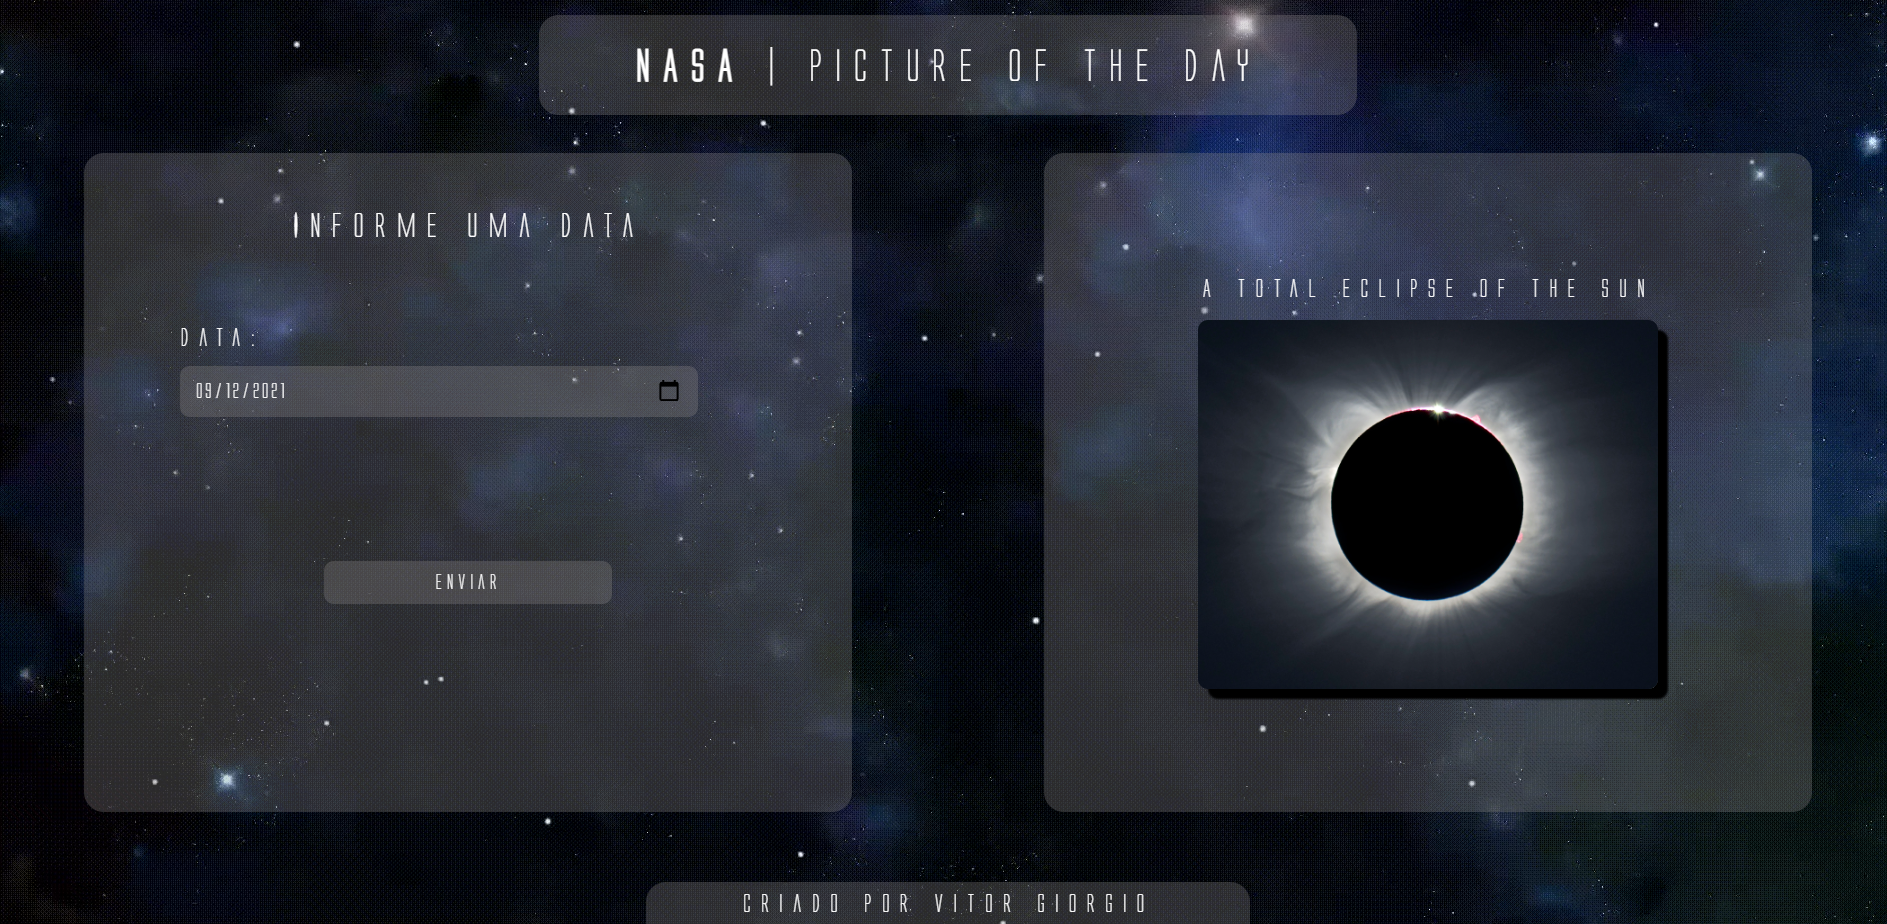
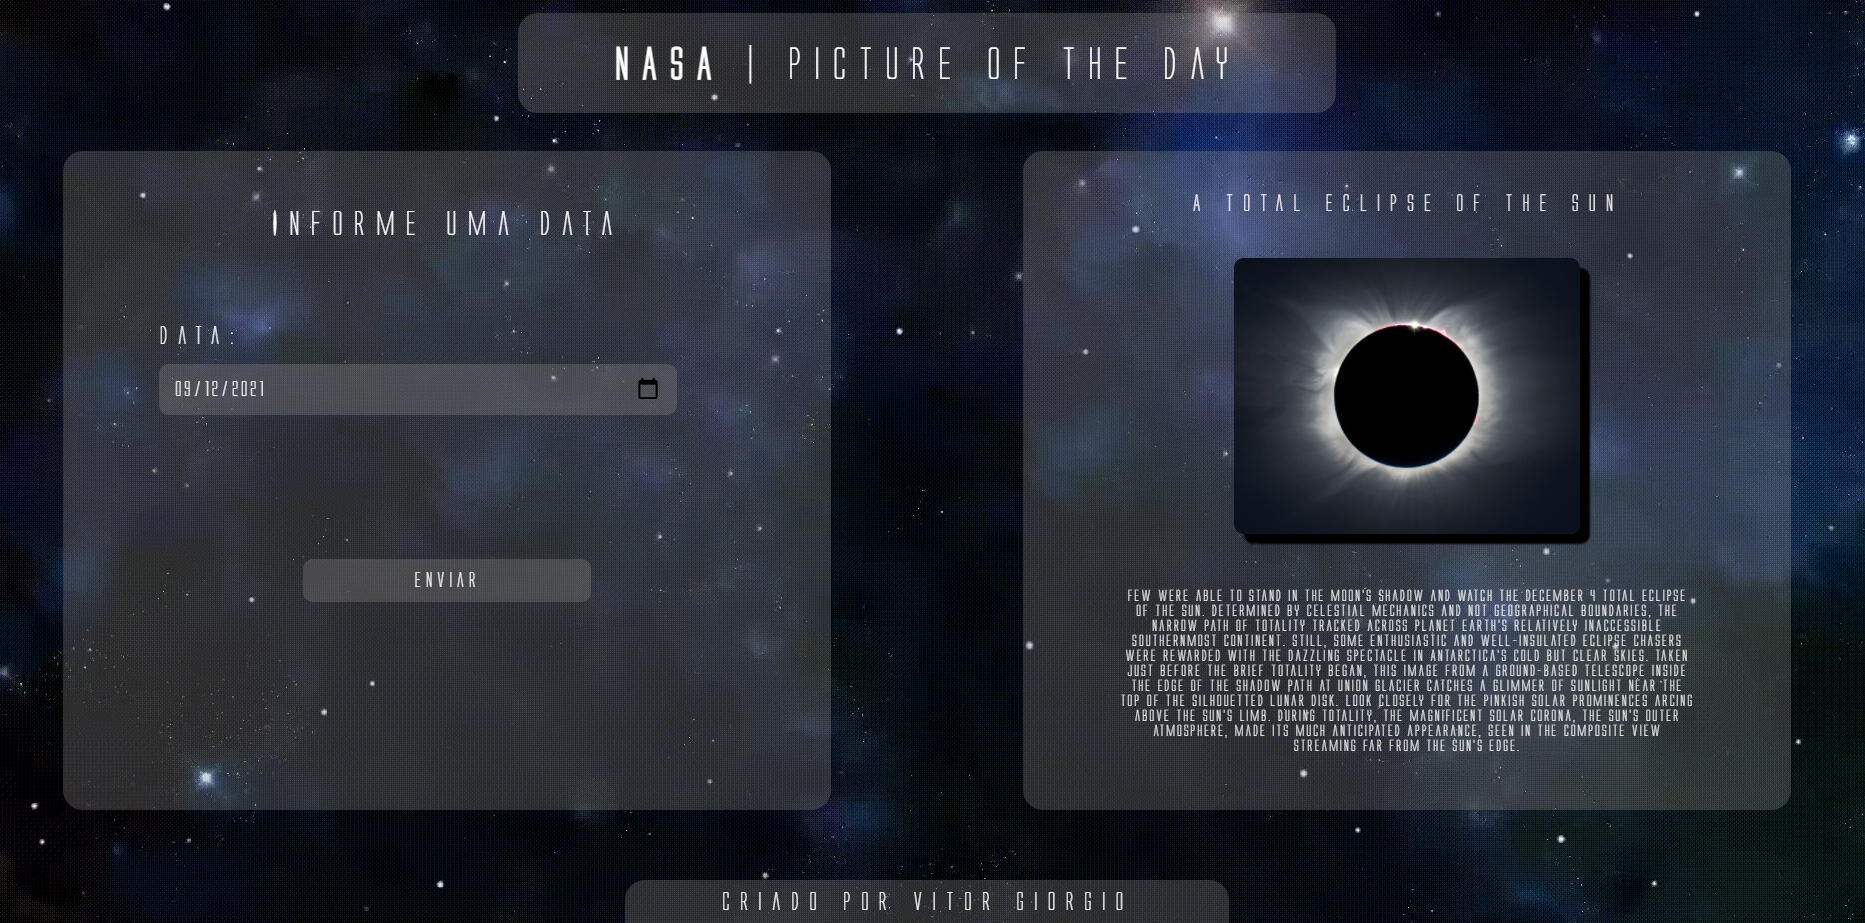
feature: media items description added

diff --git a/javascript/MediaSection.js b/javascript/MediaSection.js
@@ -9,26 +9,47 @@ export default class MediaSection {
   }
 
   /* method: create the image section */
-  createImage(responseImgTitle, imageUrl) {
+  createImage(responseImgTitle, imageUrl, imgExplanation) {
     this.mediaSection.removeClass("invisible");
     const imageTitle = $(`<h1>${responseImgTitle}</h1>`);
+    const imageDescription = $(`<p>${imgExplanation}</p>`);
+    imageDescription.css({
+      fontSize: "15px",
+      maxWidth: "100%",
+      maxHeight: "30%",
+      alignSelf: "flex-start",
+      justifySelf: "flex-start",
+      letterSpacing: 0,
+      marginTop: "5%",
+    });
     const picture = $(`<img src="${imageUrl}">`);
     picture.css({
-      maxWidth: "80%",
-      maxHeight: "80%",
+      maxWidth: "60%",
+      maxHeight: "60%",
       borderRadius: "10px",
       boxShadow: "10px 10px 2px #000",
     });
     this.mediaSection.append(imageTitle);
     this.mediaSection.append(picture);
+    this.mediaSection.append(imageDescription);
   }
 
   /* method: create the video section */
-  createVideo(responseVideoTitle, videoUrl) {
+  createVideo(responseVideoTitle, videoUrl, videoExplanation) {
     this.mediaSection.removeClass("invisible");
     const videoTitle = $(`<h1>${responseVideoTitle}</h1>`);
+    const videoDescription = $(`<p>${videoExplanation}</p>`);
+    videoDescription.css({
+      fontSize: "15px",
+      maxWidth: "100%",
+      maxHeight: "30%",
+      alignSelf: "flex-start",
+      justifySelf: "flex-start",
+      letterSpacing: 0,
+      marginTop: "5%",
+    });
     const video = $(
-      `<iframe src="${videoUrl} width="90%" height="80%" frameborder="0" allowfullscreen></iframe>`
+      `<iframe src="${videoUrl} width="60%" height="60%" frameborder="0" allowfullscreen></iframe>`
     );
     video.css({
       border: "none",
@@ -37,5 +58,6 @@ export default class MediaSection {
     });
     this.mediaSection.append(videoTitle);
     this.mediaSection.append(video);
+    this.mediaSection.append(videoDescription);
   }
 }

diff --git a/javascript/pageService.js b/javascript/pageService.js
@@ -11,17 +11,17 @@ const pageService = (inputDate, mediaSection, errorAPI) => {
     url: `https://api.nasa.gov/planetary/apod?api_key=DEMO_KEY&date=${date}`,
     /* create the media section upon successful request */
     success: function (response) {
-      //console.log(response);
+      console.log(response);
       if (response.media_type == "image") {
         if (!errorAPI.hasClass("invisible")) {
           errorAPI.addClass("invisible");
         }
-        media.createImage(response.title, response.url);
+        media.createImage(response.title, response.url, response.explanation);
       } else {
         if (!errorAPI.hasClass("invisible")) {
           errorAPI.addClass("invisible");
         }
-        media.createVideo(response.title, response.url);
+        media.createVideo(response.title, response.url, response.explanation);
       }
     },
     /* request error handling - message to the user */

diff --git a/assets/styles/style.css b/assets/styles/style.css
@@ -161,14 +161,14 @@ form input:focus {
 .media-section {
   display: flex;
   flex-direction: column;
-  justify-content: center;
+  justify-content: space-around;
   align-items: center;
 }
 
 .media-section h1 {
   margin-top: 0;
   font-weight: 100;
-  font-size: 24px;
+  font-size: 22px;
 }
 
 /* JS TOGGLE CLASSES */
